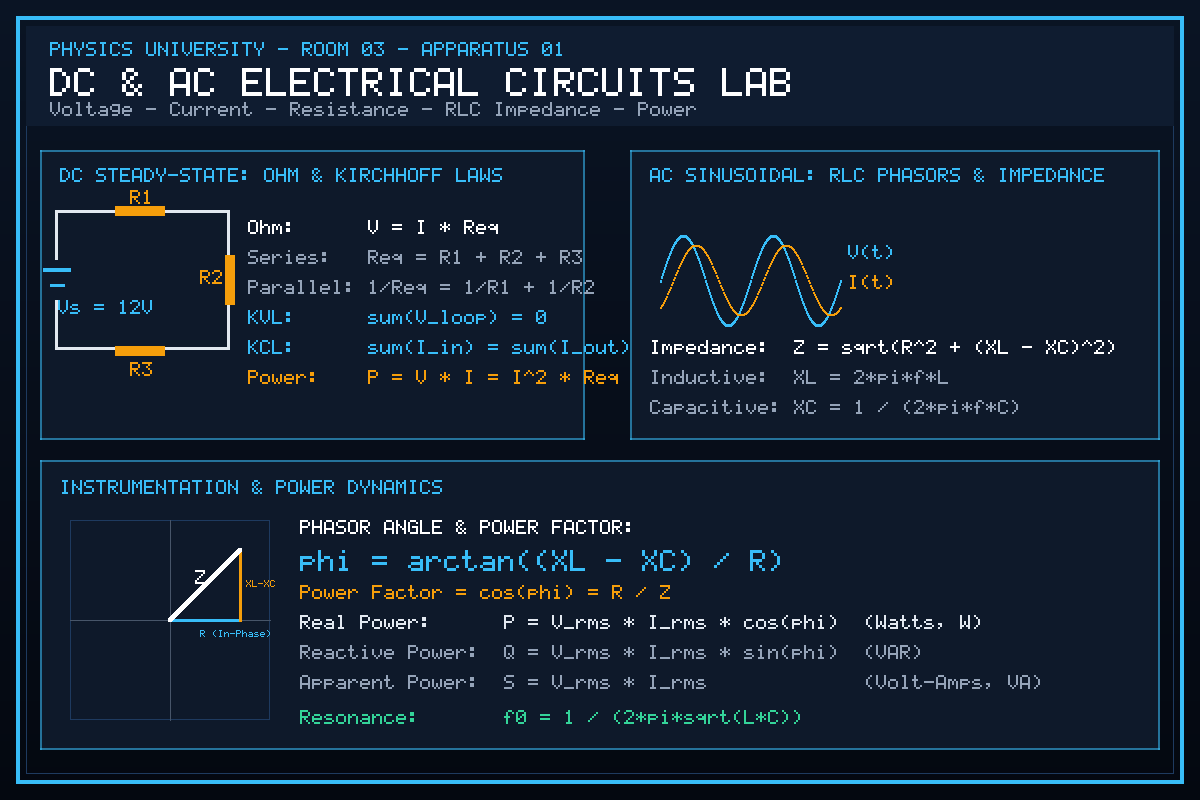
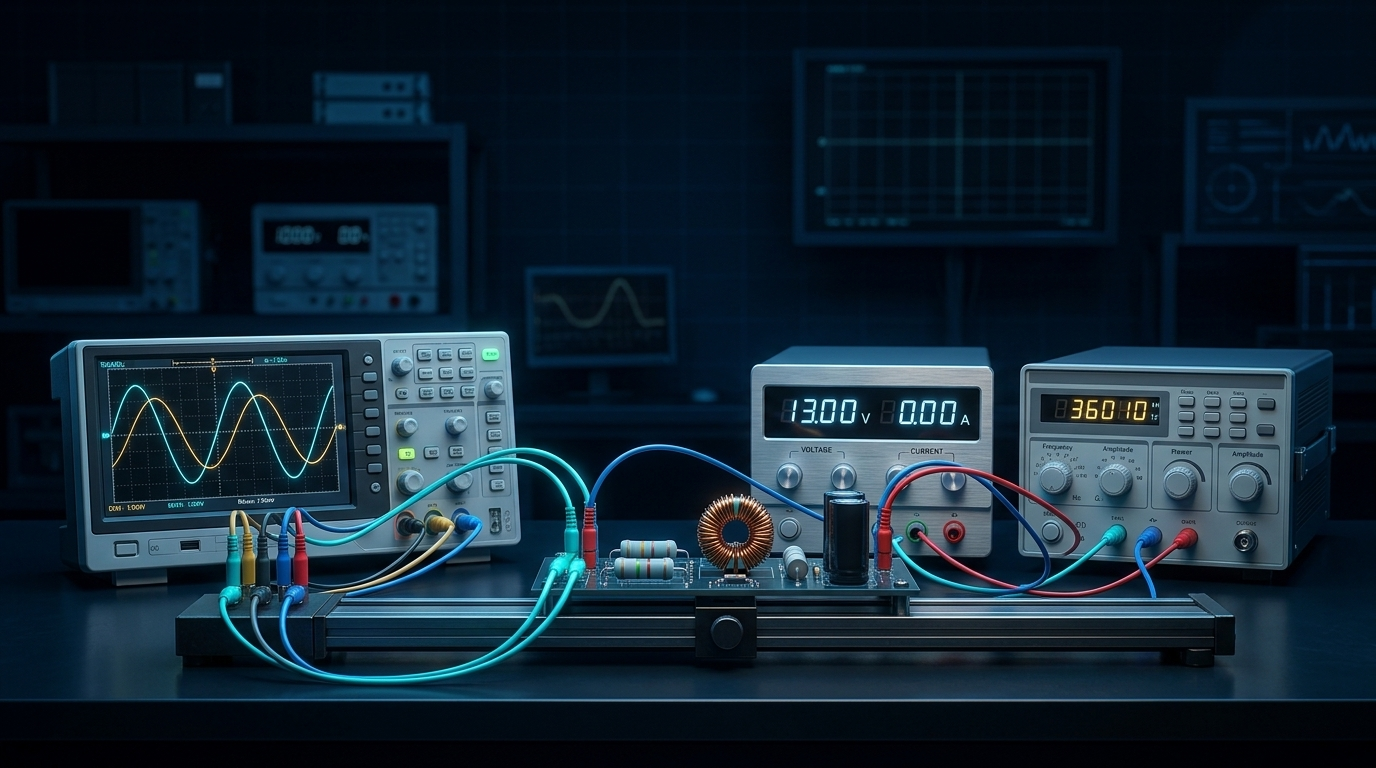
feat(room-3): complete visual alignment with Room 02 using cinematic 3D apparatus imagery and clean hierarchy

diff --git a/Waves_Electrostatics_Virtual_Lab/app/Room3Experience.tsx b/Waves_Electrostatics_Virtual_Lab/app/Room3Experience.tsx
@@ -184,6 +184,7 @@ export default function Room3Experience() {
   const [isThirdPerson, setIsThirdPerson] = useState(true);
   const [activeCharacter, setActiveCharacter] = useState<CharacterType>('female');
   const [soundEnabled, setSoundEnabled] = useState(true);
+  const [paused, setPaused] = useState(false);
   const [progress, setProgress] = useState<Room3Progress>(createDefaultRoom3Progress);
   const [hydrated, setHydrated] = useState(false);
 
@@ -871,49 +872,6 @@ export default function Room3Experience() {
             );
           })}
         </nav>
-
-        <div className="topbar-right" style={{ display: 'flex', alignItems: 'center', gap: '8px' }}>
-          <span className="score-pill">{totalScore} / 300 pts</span>
-
-          <button
-            type="button"
-            className="icon-button"
-            style={{ width: 'auto', padding: '0 10px', fontSize: '11px', fontWeight: 600 }}
-            title="Toggle 1st / 3rd Person View (Key V)"
-            onClick={() => {
-              const res = sceneApi.current?.toggleView();
-              if (res !== undefined) setIsThirdPerson(res);
-            }}
-          >
-            {isThirdPerson ? '🎥 3rd' : '👁 1st'}
-          </button>
-
-          <button
-            type="button"
-            className="icon-button"
-            style={{ width: 'auto', padding: '0 10px', fontSize: '11px', fontWeight: 600 }}
-            title="Switch Avatar (Carla / Eric)"
-            onClick={() => {
-              const char = sceneApi.current?.switchCharacter();
-              if (char) setActiveCharacter(char);
-            }}
-          >
-            👤 {activeCharacter === 'female' ? 'Carla' : 'Eric'}
-          </button>
-
-          <button
-            type="button"
-            className="icon-button"
-            title="Toggle Sound"
-            onClick={() => {
-              const next = !soundEnabled;
-              setSoundEnabled(next);
-              soundEnabledRef.current = next;
-            }}
-          >
-            {soundEnabled ? '🔊' : '🔇'}
-          </button>
-        </div>
       </header>
 
       {/* Mobile Navigation Toolbar */}
@@ -1145,30 +1103,41 @@ export default function Room3Experience() {
               <span>{circuits.mode === 'ac' ? 'I = Vs / Z | Z = √(Req² + (XL − XC)²)' : "I = Vs / Req (Ohm's Law)"}</span>
               <strong>{circuits.mode === 'ac' ? `${circuitResult.current.toFixed(3)} A (rms)` : `${circuitResult.current.toFixed(3)} A`}</strong>
               <dl>
-                <Metric label="Equivalent Req" value={`${circuitResult.req.toFixed(1)} Ω`} />
-                <Metric label="Total Impedance Z" value={`${circuitResult.impedance.toFixed(1)} Ω`} />
-                {circuits.mode === 'ac' && (
+                {circuits.mode === 'dc' ? (
                   <>
-                    <Metric label="Inductive XL" value={`${circuitResult.xl.toFixed(1)} Ω`} />
-                    <Metric label="Capacitive XC" value={`${circuitResult.xc.toFixed(1)} Ω`} />
-                    <Metric label="Phase Angle φ" value={`${circuitResult.phaseAngleDeg.toFixed(1)}°`} />
+                    <Metric label="Equivalent Req" value={`${circuitResult.req.toFixed(1)} Ω`} />
+                    <Metric label="Total Current I" value={`${circuitResult.current.toFixed(3)} A`} />
+                    <Metric label="DC Real Power P" value={`${circuitResult.realPower.toFixed(2)} W`} />
+                  </>
+                ) : (
+                  <>
+                    <Metric label="Total Impedance Z" value={`${circuitResult.impedance.toFixed(1)} Ω`} />
+                    <Metric label="Total Current Irms" value={`${circuitResult.current.toFixed(3)} A`} />
                     <Metric label="Power Factor cos φ" value={`${circuitResult.powerFactor.toFixed(3)}`} />
                     <Metric label="Real Power P" value={`${circuitResult.realPower.toFixed(2)} W`} />
-                    <Metric label="Reactive Power Q" value={`${circuitResult.reactivePower.toFixed(2)} VAR`} />
-                    <Metric label="Resonant Freq f₀" value={`${circuitResult.resonantFreq.toFixed(1)} Hz`} />
                   </>
                 )}
-                <Metric label="Total Current I" value={`${circuitResult.current.toFixed(3)} A`} />
-                <Metric label="Branch Current I1" value={`${circuitResult.i1.toFixed(3)} A`} />
-                <Metric label="Branch Current I2" value={`${circuitResult.i2.toFixed(3)} A`} />
-                <Metric label="Branch Current I3" value={`${circuitResult.i3.toFixed(3)} A`} />
-                <Metric label="Voltage Drop V1" value={`${circuitResult.v1.toFixed(1)} V`} />
-                <Metric label="Voltage Drop V2" value={`${circuitResult.v2.toFixed(1)} V`} />
-                <Metric label="Voltage Drop V3" value={`${circuitResult.v3.toFixed(1)} V`} />
-                {circuits.mode === 'dc' && (
-                  <Metric label="DC Power P" value={`${circuitResult.realPower.toFixed(2)} W`} />
-                )}
               </dl>
+              <details className="telemetry-details">
+                <summary>Branch Currents & Detailed Telemetry</summary>
+                <dl>
+                  <Metric label="Branch Current I1" value={`${circuitResult.i1.toFixed(3)} A`} />
+                  <Metric label="Branch Current I2" value={`${circuitResult.i2.toFixed(3)} A`} />
+                  <Metric label="Branch Current I3" value={`${circuitResult.i3.toFixed(3)} A`} />
+                  <Metric label="Voltage Drop V1" value={`${circuitResult.v1.toFixed(1)} V`} />
+                  <Metric label="Voltage Drop V2" value={`${circuitResult.v2.toFixed(1)} V`} />
+                  <Metric label="Voltage Drop V3" value={`${circuitResult.v3.toFixed(1)} V`} />
+                  {circuits.mode === 'ac' && (
+                    <>
+                      <Metric label="Inductive XL" value={`${circuitResult.xl.toFixed(1)} Ω`} />
+                      <Metric label="Capacitive XC" value={`${circuitResult.xc.toFixed(1)} Ω`} />
+                      <Metric label="Phase Angle φ" value={`${circuitResult.phaseAngleDeg.toFixed(1)}°`} />
+                      <Metric label="Reactive Power Q" value={`${circuitResult.reactivePower.toFixed(2)} VAR`} />
+                      <Metric label="Resonant Freq f₀" value={`${circuitResult.resonantFreq.toFixed(1)} Hz`} />
+                    </>
+                  )}
+                </dl>
+              </details>
             </div>
           </>
         )}
@@ -1419,25 +1388,41 @@ export default function Room3Experience() {
 
             <div className="formula-readout">
               <span>γ = 1 / √(1 − v²/c²) | E = γ m₀ c²</span>
-              <strong>γ = {relativityResult.gamma.toFixed(3)}</strong>
+              <strong>γ = {relativityResult.gamma.toFixed(4)}</strong>
               <dl>
-                <Metric label="Lorentz Factor γ" value={relativityResult.gamma.toFixed(3)} />
                 <Metric label="Velocity v" value={`${(relativityResult.speedMps / 1e6).toFixed(2)} × 10⁶ m/s`} />
                 <Metric label="Dilated Time Δt" value={`${relativityResult.dilatedTime.toFixed(2)} s`} />
-                <Metric label="Proper Time Δt₀" value={`${relativity.properTime.toFixed(1)} s`} />
                 <Metric label="Contracted Length L" value={`${relativityResult.contractedLength.toFixed(2)} m`} />
-                <Metric label="Length Contraction" value={`−${relativityResult.lengthContractionPercent.toFixed(1)}%`} />
-                <Metric label="Rest Energy E₀" value={`${formatValue(relativityResult.restEnergyMeV)} MeV`} />
                 <Metric label="Total Energy E" value={`${formatValue(relativityResult.totalEnergyMeV)} MeV`} />
-                <Metric label="Relativistic KE (K)" value={`${formatValue(relativityResult.kineticEnergyMeV)} MeV`} />
-                <Metric label="Total Energy (J)" value={`${formatValue(relativityResult.totalEnergyJ)} J`} />
-                <Metric label="Relativistic Momentum" value={`${formatValue(relativityResult.momentumMeV_c)} MeV/c`} />
               </dl>
+              <details className="telemetry-details">
+                <summary>Rest Mass & Relativistic Momentum</summary>
+                <dl>
+                  <Metric label="Proper Time Δt₀" value={`${relativity.properTime.toFixed(1)} s`} />
+                  <Metric label="Proper Length L₀" value={`${relativity.properLength.toFixed(1)} m`} />
+                  <Metric label="Length Contraction" value={`−${relativityResult.lengthContractionPercent.toFixed(1)}%`} />
+                  <Metric label="Rest Energy E₀" value={`${formatValue(relativityResult.restEnergyMeV)} MeV`} />
+                  <Metric label="Relativistic KE (K)" value={`${formatValue(relativityResult.kineticEnergyMeV)} MeV`} />
+                  <Metric label="Total Energy (J)" value={`${formatValue(relativityResult.totalEnergyJ)} J`} />
+                  <Metric label="Relativistic Momentum" value={`${formatValue(relativityResult.momentumMeV_c)} MeV/c`} />
+                </dl>
+              </details>
             </div>
           </>
         )}
 
         <div className="control-actions">
+          <button
+            type="button"
+            className="primary-button"
+            onClick={() => {
+              const next = !paused;
+              setPaused(next);
+              sceneApi.current?.setPaused(next);
+            }}
+          >
+            {paused ? '▶ Resume animation' : 'Ⅱ Freeze animation'}
+          </button>
           <button
             type="button"
             className="record-button"

diff --git a/Waves_Electrostatics_Virtual_Lab/app/room3Model.ts b/Waves_Electrostatics_Virtual_Lab/app/room3Model.ts
@@ -493,8 +493,8 @@ export const ROOM3_STATIONS: Record<Room3StationId, StationDefinition> = {
     accent: '#38bdf8',
     objective: 'Analyze direct current (DC) and alternating current (AC) electrical circuits to determine voltage, current, resistance, and power using fundamental laws of electricity.',
     sourceLesson: 'Lesson 8 — DC & AC Electrical Systems',
-    placardSrc: '/assets/placards/placard_electricity.png',
-    placardAlt: 'VISUAL REFERENCE: Voltage · Current · Resistance · AC/DC Power',
+    placardSrc: '/assets/placards/apparatus_electricity.png',
+    placardAlt: 'Cinematic laboratory test bench for DC and AC electrical circuits with oscilloscope and power supply',
     steps: [
       { title: 'Inspect the electronic test bench', prompt: 'Locate the DC power supply, AC function generator, resistor network board, digital multimeter, and oscilloscope.', target: 'Identify instruments for measuring voltage in parallel and current in series.' },
       { title: 'Predict AC series RLC resonance', prompt: 'Select the condition that yields minimum impedance and unity power factor.', target: 'Apply phasor impedance relationships to predict resonance behavior.' },
@@ -532,8 +532,8 @@ export const ROOM3_STATIONS: Record<Room3StationId, StationDefinition> = {
     accent: '#10b981',
     objective: 'Apply the principles of geometric and physical optics to analyze light behavior involving reflection, refraction, lenses, mirrors, and diffraction patterns.',
     sourceLesson: 'Lesson 9 — Geometric & Physical Optics',
-    placardSrc: '/assets/placards/placard_optics.png',
-    placardAlt: 'VISUAL REFERENCE: Reflection · Refraction · Lenses & Mirrors · Diffraction',
+    placardSrc: '/assets/placards/apparatus_optics.png',
+    placardAlt: 'Cinematic precision optical bench with diode laser, refraction prism, lenses, and interference fringes',
     steps: [
       { title: 'Inspect the optical rail & components', prompt: 'Examine the 2-meter optical track, tunable laser source, semicircular prism tank, lens mounts, slit apertures, and observation screen.', target: 'Familiarize yourself with optical rail alignment and vernier cursors.' },
       { title: 'Predict Total Internal Reflection (TIR)', prompt: 'Determine the condition required for 100% optical reflection at a dielectric boundary.', target: 'Relate Snell\'s law indices n1 and n2 to the critical angle θc.' },
@@ -571,8 +571,8 @@ export const ROOM3_STATIONS: Record<Room3StationId, StationDefinition> = {
     accent: '#a855f7',
     objective: 'Apply the postulates of special relativity to calculate relativistic effects, including time dilation, length contraction, and mass-energy equivalence.',
     sourceLesson: 'Lesson 10 — Special Theory of Relativity',
-    placardSrc: '/assets/placards/placard_relativity.png',
-    placardAlt: 'VISUAL REFERENCE: Time Dilation · Length Contraction · Mass-Energy Equivalence',
+    placardSrc: '/assets/placards/apparatus_relativity.png',
+    placardAlt: 'Cinematic relativistic photon light-clock apparatus and linear accelerator beam pipe',
     steps: [
       { title: 'Inspect the dual-frame observation deck', prompt: 'Compare Stationary Frame S (lab clock, calorimeter) with Moving Frame S\' (relativistic spacecraft, photon light clock, contracting meter rod).', target: 'Observe how inertial reference frames compare according to Einstein\'s postulates.' },
       { title: 'Predict relativistic clock rates', prompt: 'Choose how moving clock ticks compare to stationary laboratory clocks as velocity approaches c.', target: 'Apply the invariance of the speed of light to the geometric photon clock.' },

diff --git a/Waves_Electrostatics_Virtual_Lab/app/room3Scene.ts b/Waves_Electrostatics_Virtual_Lab/app/room3Scene.ts
@@ -99,10 +99,10 @@ export function createRoom3Scene(
 ): Room3SceneApi {
   // 1. Scene, Camera, Renderer Setup
   const scene = new THREE.Scene();
-  scene.background = new THREE.Color(0x0a0f1d);
-  scene.fog = new THREE.FogExp2(0x0a0f1d, 0.025);
+  scene.background = new THREE.Color(0x0c1524);
+  scene.fog = new THREE.Fog(0x0c1524, 25, 75);
 
-  const camera = new THREE.PerspectiveCamera(65, container.clientWidth / container.clientHeight, 0.1, 100);
+  const camera = new THREE.PerspectiveCamera(52, container.clientWidth / container.clientHeight, 0.1, 70);
   camera.position.set(0, 1.65, 4.5);
 
   const renderer = new THREE.WebGLRenderer({ antialias: true, powerPreference: 'high-performance' });
@@ -183,11 +183,11 @@ export function createRoom3Scene(
   // -------------------------------------------------------------
   // 2. Lighting & Environmental Casework
   // -------------------------------------------------------------
-  const hemiLight = new THREE.HemisphereLight(0xbddcff, 0x111827, 1.2);
+  const hemiLight = new THREE.HemisphereLight(0x9dd8ff, 0x121827, 1.55);
   scene.add(hemiLight);
 
-  const mainLight = new THREE.DirectionalLight(0xffffff, 1.8);
-  mainLight.position.set(3, 8, 5);
+  const mainLight = new THREE.DirectionalLight(0xffffff, 2.05);
+  mainLight.position.set(5, 10, 8);
   mainLight.castShadow = true;
   mainLight.shadow.mapSize.width = 2048;
   mainLight.shadow.mapSize.height = 2048;

diff --git a/Waves_Electrostatics_Virtual_Lab/app/globals.css b/Waves_Electrostatics_Virtual_Lab/app/globals.css
@@ -374,6 +374,10 @@ button { color: inherit; }
 .formula-readout dl div { min-width: 0; }
 .formula-readout dt { color: #71879e; font-size: 10px; }
 .formula-readout dd { margin: 4px 0 0; color: #eefcff; font: 700 12px/1 ui-monospace, monospace; }
+.telemetry-details { margin-top: 10px; border-top: 1px dashed rgba(34, 211, 238, 0.22); padding-top: 6px; }
+.telemetry-details summary { color: #8da4be; font: 700 10px/1.2 ui-monospace, monospace; text-transform: uppercase; letter-spacing: 0.08em; cursor: pointer; padding: 4px 0; user-select: none; outline: none; }
+.telemetry-details summary:hover, .telemetry-details[open] summary { color: var(--station-accent, #38bdf8); }
+.telemetry-details dl { margin-top: 8px !important; padding-top: 6px !important; border-top: none !important; }
 .primary-button { width: 100%; margin-top: 13px; padding: 10px 12px; border: 1px solid color-mix(in srgb, var(--station-accent) 66%, transparent); border-radius: 8px; background: color-mix(in srgb, var(--station-accent) 22%, #0c1728); color: #f3fdff; font-size: 12px; font-weight: 750; cursor: pointer; }
 .primary-button:hover, .icon-button:hover, .secondary-button:hover, .record-button:hover { filter: brightness(1.18); }
 .segment-control { display: grid; grid-template-columns: 1fr 1fr; gap: 5px; margin-top: 14px; padding: 4px; border: 1px solid var(--line); border-radius: 9px; background: rgba(4, 10, 20, 0.56); }
